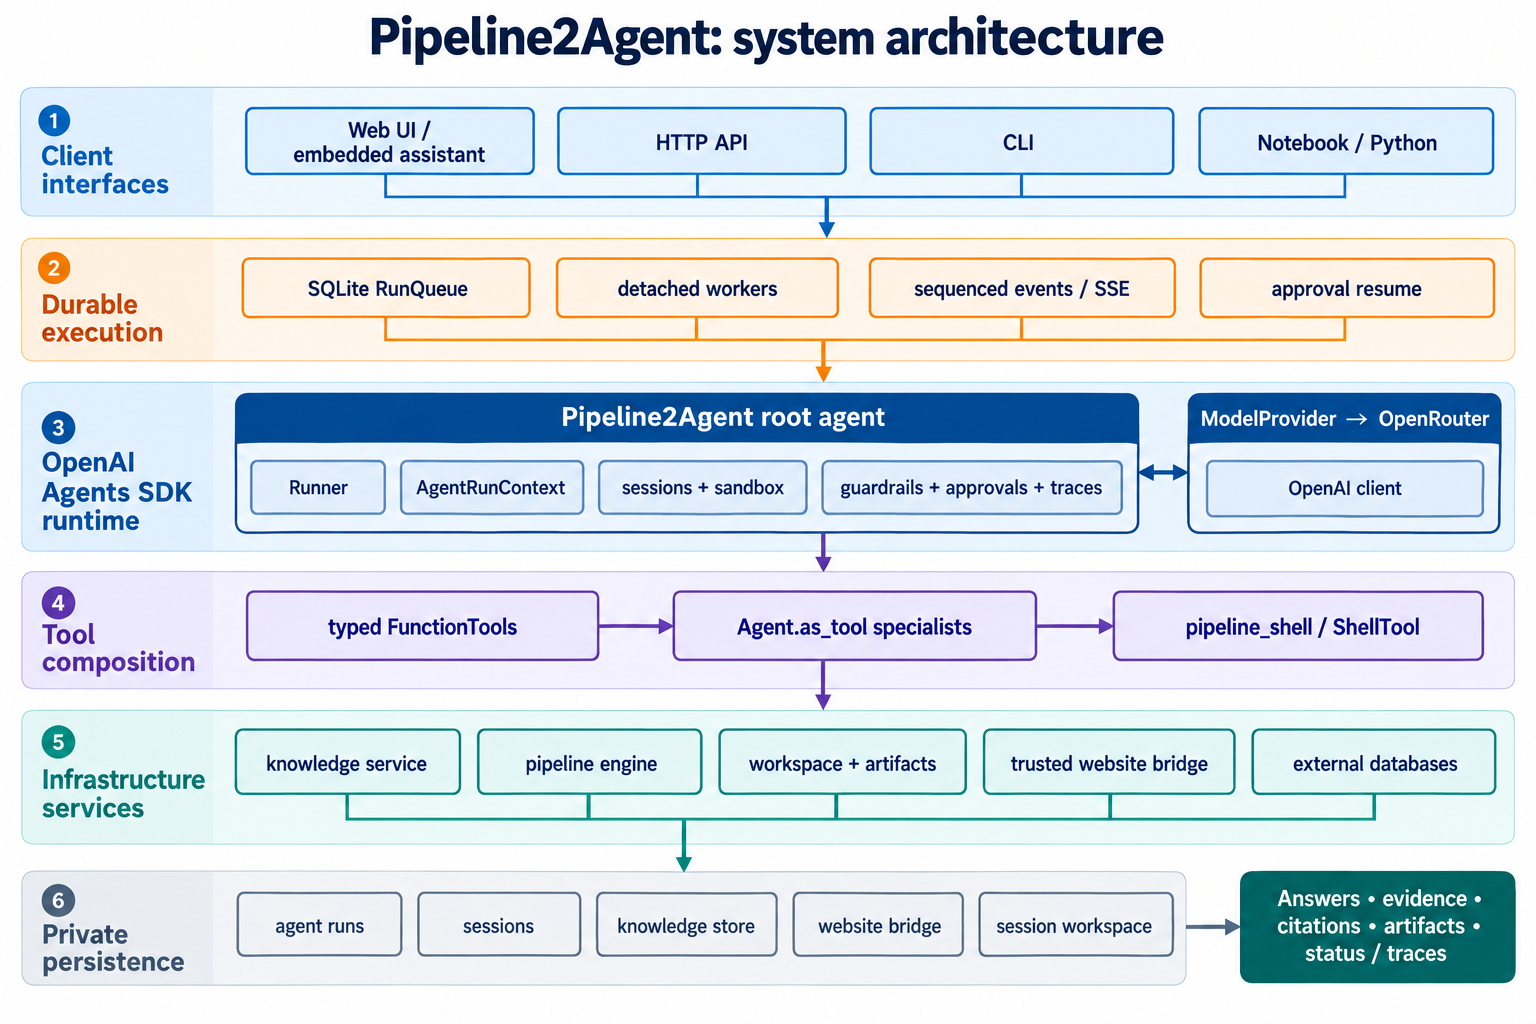
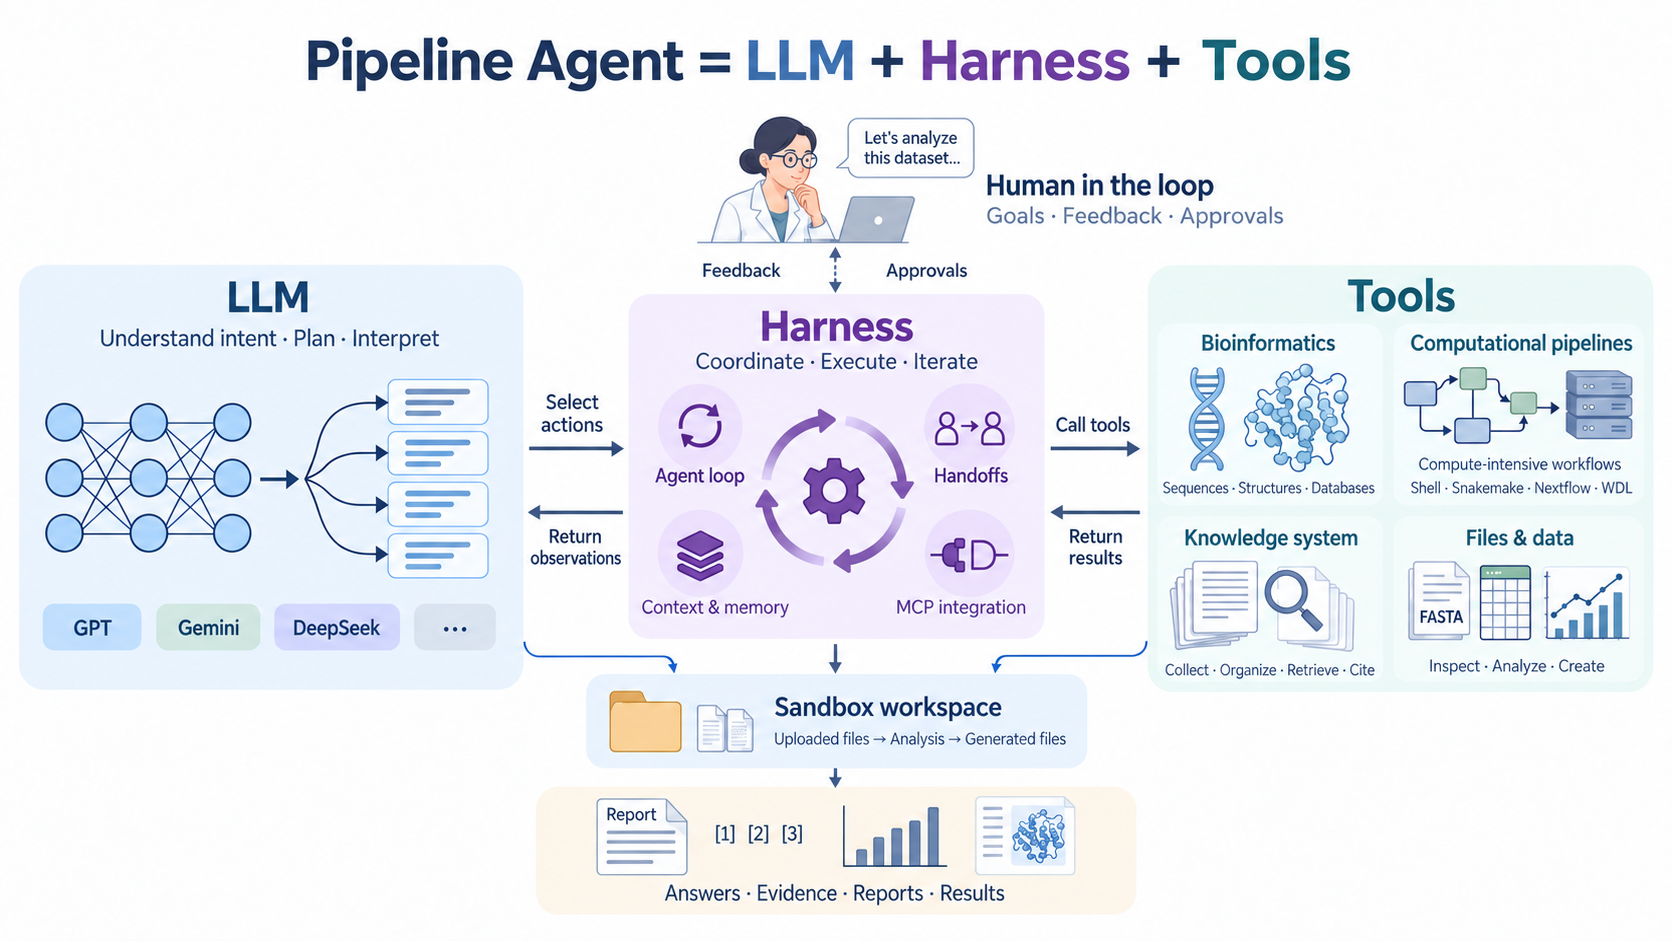
Update architecture and function figures

diff --git a/docs/images/system_architecture_prompt.md b/docs/images/system_architecture_prompt.md
@@ -1,0 +1,44 @@
+# Pipeline Agent figure generation prompt — refined version
+
+Consolidated generation brief for the approved design. The figure was created with the built-in image generation tool and refined through referenced-image edits, including `good color style.png` as a palette and typography reference. The final version is [system_architecture.png](system_architecture.png). It has no separate title, uses a simplified feed-forward LLM network, corrected Harness icons, a soft publication palette, additional title breathing room, an unboxed Files & data chart, borderless Sandbox workspace and Results panels, a plain y-axis on the bottom bar chart, and the label "Sandbox workspace".
+
+Use case: scientific-educational.
+Create a BRAND NEW, beautifully art-directed scientific publication architecture figure for a bioinformatics pipeline agent. Generate the image from scratch. No reference images. The intended result is a polished journal graphical abstract with professional scientific illustrations, not a generic slide or a wall of boxes. Landscape approximately 16:9, high resolution, white background, generous whitespace, crisp legible typography, restrained flat colors and delicate vector-like scientific linework.
+
+CORE MESSAGE, prominent exact equation, with no separate title above it:
+"Pipeline Agent = LLM + Harness + Tools"
+
+Composition: a coherent, balanced left-to-right architecture with THREE clearly distinguished main regions, LLM on left, Harness in center, Tools on right. The Harness is the coordination hub, with meaningful bidirectional arrows between LLM and Harness, and between Harness and Tools. Above the hub, a small researcher illustration provides human interaction and oversight. Below, a narrow shared workspace and results area makes the real-file workflow tangible. Do not put numbers on the components. Use elegant scientific illustrations as the primary communication, only short labels; no bullet paragraphs. Architectural relationships must be simple and unambiguous. All labels sit clearly outside arrows; no overlapping lines or dangling connections.
+
+Visual style: exceptional editorial design for a computational biology paper, guided by the soft palette and typography of `good color style.png`. Fine, consistent strokes; dark navy text; powder blue for LLM, pale lavender for Harness, muted mint for Tools, and restrained warm accents only where needed. Use low-saturation fills and medium-blue scientific illustrations; avoid bright cyan, neon teal, saturated violet, harsh orange, glossy gradients and heavy shadows. Use one consistent humanist sans-serif family with comfortable spacing, semibold headings, medium section labels, regular explanatory text, deep slate/navy primary text and subdued slate blue-gray secondary text. Keep the main equation accents muted. Restrained pale tinted regions, visually open rather than thick closed boxes. Draw purposeful scientific icons with detail and craftsmanship: a symmetric, evenly spaced neural-network motif and branching plan for LLM; an orchestration/feedback motif for Harness; DNA and protein ribbon, workflow DAG with compute nodes, indexed literature, and files/chart for Tools. These are conceptual illustrations, not data plots and not decorations. White space, hierarchy and balance matter more than volume of labels. Avoid robot heads, cartoon brains, glowing sci-fi, dark backgrounds, dashboards, stock clip art, oversized title banners, excessive shadows, 3D isometric blocks, pseudo-code, microscopic text, logos, watermarks.
+
+REGION CONTENT:
+1. Heading "LLM". A simple, balanced feed-forward network with three evenly spaced nodes in each of three aligned columns: input, hidden, output. Use only adjacent-column connections, thin consistent strokes, no dense web or crossing spaghetti, and no arrowheads inside the network. Add one clear right-pointing arrow from the network toward the branching plan cards; no reversed or stray arrowheads. Short label "Understand intent · Plan · Interpret".
+Under it, a tasteful row of simple model chips labeled "GPT", "Gemini", "DeepSeek", and "…". Use distinct but harmonious low-saturation tones: soft powder blue for GPT, muted sage green for Gemini, soft muted lavender-blue for DeepSeek, and very pale slate blue for the ellipsis chip. Keep dark navy text, equal chip heights, rounded corners, alignment and consistent spacing. Do not add any caption below the chips.
+
+2. Heading "Harness". Subtitle "Coordinate · Execute · Iterate". Central orchestration illustration, with four compact labeled support motifs:
+"Agent loop", "Handoffs", "Context & memory", "MCP integration".
+Use small conceptual icons: circular arrows for Agent loop and layered documents or a memory stack for Context & memory. Handoffs uses two matching, clearly separated agent bust outlines connected by one right-pointing transfer arrow: one circular head and a symmetric shoulder outline per agent, no extra bodies, malformed branches or arrow intersections. MCP integration uses a simple plug-and-socket interface: two complementary connector halves aligned horizontally with matching contacts and short straight cable stems, no stray segments or tangled loops. These are conceptual symbols, not official logos. Match all four icons in scale, purple stroke weight and pale lavender circular backing. Remove the old labels "Sessions", "Guardrails", "Job execution", and "Progress" completely.
+The LLM selects actions; the harness coordinates and executes calls and returns observations. Show a visible iterative feedback relationship, not a single one-way conveyor.
+Above Harness: a refined researcher silhouette with a tiny chat bubble, labeled "Human in the loop", with short sublabel "Goals · Feedback · Approvals".
+Use a clean dashed bidirectional link from this researcher to Harness, showing approval and feedback; the user is outside the automated agent.
+
+3. Heading "Tools". Four clearly separated, beautifully illustrated compact groups, arranged as a spacious 2-by-2 cluster, connected as siblings to the same tool interface:
+"Bioinformatics" with DNA/protein icon and sublabel "Sequences · Structures · Databases".
+"Computational pipelines" with workflow DAG and compute icon, sublabel "Compute-intensive workflows", and a readable small line "Shell · Snakemake · Nextflow · WDL".
+"Knowledge system" with a reference-document/index icon and sublabel "Collect · Organize · Retrieve · Cite".
+"Files & data" with actual document/table/plot icons and sublabel "Inspect · Analyze · Create".
+Pipelines and knowledge are tools, not extra peers in the core equation.
+
+BASE:
+Under Harness and Tools, an understated connected workspace motif with a folder and input/output files. Label "Sandbox workspace" and a smaller line "Uploaded files → Analysis → Generated files". Use a pale fill but no enclosing border, outline, rim or shadow.
+This represents real files in session workspaces, not cloud-only abstract data. Keep workspace visually subordinate to the three core regions.
+At bottom, a concise results area with a report, citation markers, and a small chart illustration, labeled "Answers · Evidence · Reports · Results".
+Use a pale warm fill but no enclosing border, outline, rim or shadow around the Results panel.
+The bottom bar chart must have plain vertical and horizontal axes with flat endpoints and no axis arrowheads. All bars share one baseline, consistent widths, and even spacing. Preserve the separate downward architectural connector from the workspace to the results panel.
+The small chart icon in the lower-right "Files & data" group should be an unboxed, minimal bar-chart symbol: a simple flat baseline and left axis, evenly spaced bars and a subtle trend line, with no enclosing rectangle, no stray segments and no arrowheads. Keep it visually consistent with the adjacent document and table icons.
+The outputs must read as the product of the coordinated agent, not as evidence that the diagram itself contains experimental results.
+
+Scientific fidelity: this architecture supports long computational jobs, knowledge retrieval with citations, actual file operations, replaceable LLM backends, multi-agent handoffs, context and memory management, MCP-based external protocol integration, and human approval at defined control points. Do not imply all operations require approval or claim automatic scientific validation. Do not add a specialist-agent swarm or extra infrastructure detail.
+Render every supplied label correctly. Ensure a beautiful, publication-quality, simple-to-follow figure that remains readable when reduced.
+Refine the illustration with crisp strokes, consistent line weights, aligned typography, evenly spaced network nodes, tidy document and table details, and clearly connected workflow nodes. Check that every label is spelled correctly and that arrows match the intended direction without crossing text. Request the highest available native landscape resolution; record the actual output dimensions rather than treating the requested resolution as guaranteed.

diff --git a/docs/images/system_functions_prompt.md b/docs/images/system_functions_prompt.md
@@ -1,0 +1,85 @@
+# System functions figure generation prompt
+
+Generated from scratch with the built-in image generation tool. The existing system architecture image was supplied solely as a palette and typography reference; the previous functions image was not used.
+
+Final figure: [system_functions.png](system_functions.png), 1672 × 941 pixels. The current revision removes the pipeline count, removes the configured variant-risk caption, and adds coding support.
+
+## Prompt
+
+Use case: scientific-educational.
+Asset: a NEW scientific publication figure showing the USER-FACING SCIENTIFIC FUNCTIONS of a bioinformatics pipeline agent.
+Input image: STYLE REFERENCE ONLY — borrow the soft color palette, restrained scientific illustrations and readable sans-serif typography. This is NOT an edit target. Do not copy its architecture layout, formula, labels, LLM, Harness, neural network, MCP, models or workspace. Create a completely new functional overview from scratch.
+
+PRIMARY MESSAGE:
+The main function is choosing and running bioinformatics pipelines, then delivering understandable scientific results. Scientific pipeline analyses are the dominant content. Supporting data retrieval, file analysis and knowledge search are secondary.
+
+STYLE:
+Beautiful computational biology journal graphical abstract. White background, ample whitespace, muted powder blue, desaturated teal, pale sage and lavender. Deep slate/navy text; calm readable humanist sans-serif, semibold headings and regular captions. Delicate scientific vector-like illustration, fine consistent strokes, balanced geometry. Soft borderless tinted groupings rather than heavy card borders. No bright cyan, electric blue, neon green, saturated purple, orange button colors, glossy effects, shadows, fake data, tiny dense text or ornamental clutter. Use consistent flat scientific illustrations. All chart axes have flat endpoints, never arrowheads. Thin directional arrows only for workflow flow. Request high native landscape resolution, approximately 16:9.
+
+LAYOUT:
+A spacious three-level composition. Top: one modest title with ample space below it, followed by a compact four-step user workflow. Middle: a dominant, beautifully balanced 3-column by 2-row collection of six scientific pipeline groups. Bottom: a slim, quieter strip of four supporting functions. Keep the structure visually simple; prioritize the six scientific groups. The figure should be easy to understand in a few seconds.
+
+TOP TITLE, exact:
+"From biological data to scientific results"
+No other brand title or equation.
+
+TOP USER WORKFLOW:
+Four concise illustrated steps, aligned on one horizontal line, with simple right-pointing arrows BETWEEN them, never through text:
+"Question & data" — a small question bubble beside FASTA/FASTQ input sheets.
+"Select & configure" — a small workflow list with a checkmark.
+"Run & monitor" — a tidy workflow DAG with a subtle progress indicator.
+"Results & reports" — a report sheet beside a small bar chart with flat axes.
+This is a user task flow, not a software architecture. No internal modules, servers or database storage layers.
+
+MIDDLE MAIN SECTION:
+Small clear section heading "Bioinformatics pipelines". Do not print a pipeline count because the catalog grows over time.
+Below it six equally sized, generously spaced scientific capability groups as a 3 × 2 arrangement. Use a meaningful scientific illustration for each group, then a short heading and exactly the supplied caption(s). These are alternative analysis capabilities, not steps to execute sequentially: NO arrows between the six groups. A restrained pale-tinted borderless background may unify each group. Avoid six giant dark boxes or long paragraphs.
+
+Group 1, top left:
+Heading "Metagenomics"
+Caption line 1 "Read QC · Host removal"
+Caption line 2 "Assembly · Pathogen identification"
+Illustration: several short read fragments combining into a contig, with tiny abstract microbe silhouettes to indicate identification. Scientifically elegant and schematic.
+
+Group 2, top middle:
+Heading "Genome annotation"
+Caption line 1 "Gene features"
+Caption line 2 "Functional annotation"
+Illustration: a short linear DNA feature track with clean directional gene blocks and a small annotation sheet. Use pale blue and sage, not vivid colors.
+
+Group 3, top right:
+Heading "Resistance & virulence"
+Caption line 1 "Resistance-gene candidates"
+Caption line 2 "Virulence-factor candidates"
+Illustration: a sequence fragment with two neatly highlighted regions and a small reference match/check symbol. This is sequence-based screening, not treatment selection or a clinical diagnosis. No hazard symbol, weapons, or dramatic danger motif.
+
+Group 4, bottom left:
+Heading "Variants & phylogeny"
+Caption line 1 "Bacterial reads & genomes"
+Caption line 2 "Viral genomes"
+Illustration: a tiny alignment with one or two highlighted nucleotide differences alongside a tidy branching phylogenetic tree. Keep alignment schematic and unlabeled if detailed letters would be too small. No tree cycles or malformed branches.
+
+Group 5, bottom middle:
+Heading "Viral characterization"
+Caption line 1 "Molecular typing"
+No second caption line.
+Illustration: a restrained generic viral particle beside a short consensus sequence and report. Do not show a numerical risk score, clinical diagnosis, or imaginary quantitative results.
+
+Group 6, bottom right:
+Heading "RNA structure"
+Caption "Secondary-structure prediction"
+Illustration: a clear simple RNA stem-loop with correctly paired short stem rungs and a continuous single-strand loop; no impossible branching, tangle or 3D protein structure.
+
+BOTTOM SUPPORT STRIP:
+Use a small label "Supporting functions" and four compact evenly spaced icon-and-label items, separated by whitespace, visually subordinate to the pipelines:
+"Retrieve data & literature" — a source document and magnifier.
+"Analyze files & documents" — a table and document.
+"Search knowledge & explain findings" — a reference book and small speech bubble.
+"Coding support" — a small clean code-window or angle-bracket icon.
+Keep this strip open and borderless; do not add connecting arrows or more captions.
+
+ACCURACY AND CONSISTENCY:
+Use only these supplied labels; spell them correctly and do not repeat headings. The six groups summarize the expanding pipeline catalog: metagenomic workflows, annotation workflows, resistance/virulence workflows, mutation/variant workflows, viral typing/risk workflows, and RNA workflows. Do not print a fixed total or per-group counts.
+Pipeline execution is the main capability. Do not add unsupported clinical outcomes, tertiary RNA modeling, abundance quantification, diagnoses, or performance statistics.
+Do not include architecture-related labels, LLM brands, tool engines, approvals, harness internals, a neural network, model icons, code snippets or an agent robot.
+Keep all icons consistent in detail level, line weight and scale. Maintain generous margins and readable short captions. No clipping, overprinting, arrows through text, extraneous frame lines, watermarks or logos.

diff --git a/README.md b/README.md
@@ -18,9 +18,9 @@ durable execution to typed tools, specialist agents, and pipeline services.*
 
 ![Pipeline2Agent functions](docs/images/system_functions.png)
 
-*Figure 2. Pipeline2Agent functional capabilities across biology, data
-analysis, research, knowledge, workspace, coding, pipelines, and trusted web
-integration.*
+*Figure 2. Pipeline2Agent core functions: selecting, configuring, running, and
+understanding bioinformatics pipelines, with supporting data, file, and
+knowledge operations.*
 
 Pipeline2Agent can:
 
